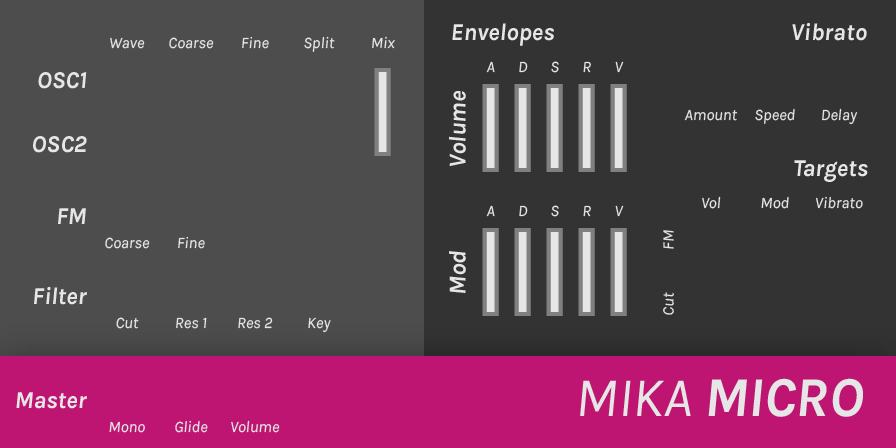
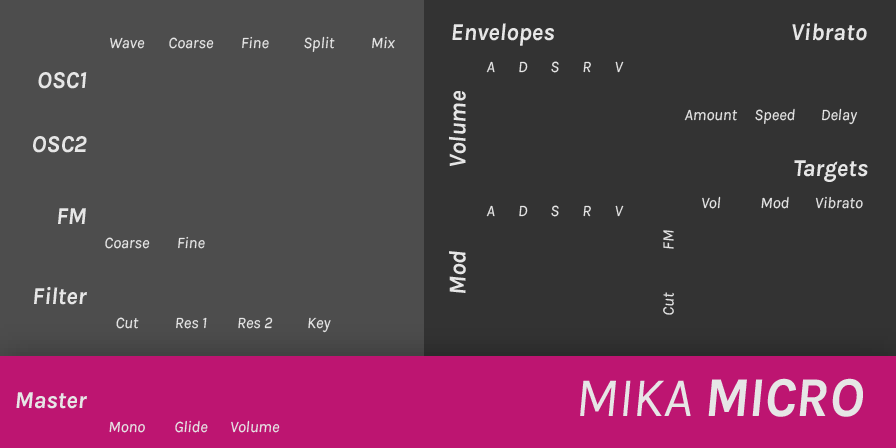
gray out mod envelope when not useful

Changed region(s): [[0.5312, 0.5, 0.7188, 0.7188], [0.5312, 0.1875, 0.7188, 0.4062], [0.4062, 0.1562, 0.4375, 0.3438]]

diff --git a/source/MikaMicro.cpp b/source/MikaMicro.cpp
@@ -65,6 +65,7 @@ void MikaMicro::InitGraphics()
 
 	auto knob = pGraphics->LoadIBitmap(KNOB_ID, KNOB_FN, 55);
 	auto slider = pGraphics->LoadIBitmap(SLIDER_ID, SLIDER_FN, 1);
+	auto sliderBg = pGraphics->LoadIBitmap(SLIDERBG_ID, SLIDERBG_FN, 1);
 	auto waveformSwitch = pGraphics->LoadIBitmap(WAVEFORMSWITCH_ID, WAVEFORMSWITCH_FN, numWaveforms);
 	auto toggleSwitch = pGraphics->LoadIBitmap(TOGGLESWITCH_ID, TOGGLESWITCH_FN, 2);
 
@@ -77,6 +78,7 @@ void MikaMicro::InitGraphics()
 	pGraphics->AttachControl(new IKnobMultiControl(this, 40 * 4, 28 * 4, osc2Coarse, &knob));
 	pGraphics->AttachControl(new IKnobMultiControl(this, 56 * 4, 28 * 4, osc2Fine, &knob));
 	pGraphics->AttachControl(new IKnobMultiControl(this, 72 * 4, 28 * 4, osc2Split, &knob));
+	pGraphics->AttachControl(new IBitmapControl(this, 93.5 * 4, 17 * 4, &sliderBg));
 	pGraphics->AttachControl(new IFaderControl(this, 92.5 * 4, 17 * 4, 22 * 4, oscMix, &slider));
 
 	// fm
@@ -90,15 +92,25 @@ void MikaMicro::InitGraphics()
 	pGraphics->AttachControl(new IKnobMultiControl(this, 72 * 4, 64 * 4, filterKeyTrack, &knob));
 
 	// modulation sources
+	pGraphics->AttachControl(new IBitmapControl(this, 120.5 * 4, 21 * 4, &sliderBg));
 	pGraphics->AttachControl(new IFaderControl(this, 119.5 * 4, 21 * 4, 22 * 4, volEnvA, &slider));
+	pGraphics->AttachControl(new IBitmapControl(this, 128.5 * 4, 21 * 4, &sliderBg));
 	pGraphics->AttachControl(new IFaderControl(this, 127.5 * 4, 21 * 4, 22 * 4, volEnvD, &slider));
+	pGraphics->AttachControl(new IBitmapControl(this, 136.5 * 4, 21 * 4, &sliderBg));
 	pGraphics->AttachControl(new IFaderControl(this, 135.5 * 4, 21 * 4, 22 * 4, volEnvS, &slider));
+	pGraphics->AttachControl(new IBitmapControl(this, 144.5 * 4, 21 * 4, &sliderBg));
 	pGraphics->AttachControl(new IFaderControl(this, 143.5 * 4, 21 * 4, 22 * 4, volEnvR, &slider));
+	pGraphics->AttachControl(new IBitmapControl(this, 152.5 * 4, 21 * 4, &sliderBg));
 	pGraphics->AttachControl(new IFaderControl(this, 151.5 * 4, 21 * 4, 22 * 4, volEnvV, &slider));
+	pGraphics->AttachControl(new IBitmapControl(this, 120.5 * 4, 57 * 4, &sliderBg));
 	pGraphics->AttachControl(new IFaderControl(this, 119.5 * 4, 57 * 4, 22 * 4, modEnvA, &slider));
+	pGraphics->AttachControl(new IBitmapControl(this, 128.5 * 4, 57 * 4, &sliderBg));
 	pGraphics->AttachControl(new IFaderControl(this, 127.5 * 4, 57 * 4, 22 * 4, modEnvD, &slider));
+	pGraphics->AttachControl(new IBitmapControl(this, 136.5 * 4, 57 * 4, &sliderBg));
 	pGraphics->AttachControl(new IFaderControl(this, 135.5 * 4, 57 * 4, 22 * 4, modEnvS, &slider));
+	pGraphics->AttachControl(new IBitmapControl(this, 144.5 * 4, 57 * 4, &sliderBg));
 	pGraphics->AttachControl(new IFaderControl(this, 143.5 * 4, 57 * 4, 22 * 4, modEnvR, &slider));
+	pGraphics->AttachControl(new IBitmapControl(this, 152.5 * 4, 57 * 4, &sliderBg));
 	pGraphics->AttachControl(new IFaderControl(this, 151.5 * 4, 57 * 4, 22 * 4, modEnvV, &slider));
 	pGraphics->AttachControl(new IKnobMultiControl(this, 170 * 4, 12 * 4, lfoAmount, &knob));
 	pGraphics->AttachControl(new IKnobMultiControl(this, 186 * 4, 12 * 4, lfoFrequency, &knob));
@@ -180,36 +192,22 @@ void MikaMicro::GrayOutControls()
 	auto osc1Enabled = parameters[oscMix] < 1.0;
 	auto osc2Enabled = parameters[oscMix] > 0.0;
 	auto filterEnabled = parameters[filterCutoff] < 20000.;
+	auto modEnvEnabled = parameters[modEnvFm] != 0.0 || parameters[modEnvCutoff] != 0.0;
 	auto vibratoEnabled = parameters[lfoFm] != 0.0 || parameters[lfoCutoff] != 0.0 ||
 		parameters[lfoAmount] < 0.0 || (parameters[lfoAmount] > 0.0 && osc2Enabled);
 	
-	pGraphics->GetControl(osc1Wave + 1)->GrayOut(!osc1Enabled);
-	pGraphics->GetControl(osc1Coarse + 1)->GrayOut(!(osc1Enabled || fmEnabled));
-	pGraphics->GetControl(osc1Fine + 1)->GrayOut(!(osc1Enabled || fmEnabled));
-	pGraphics->GetControl(osc1Split + 1)->GrayOut(!osc1Enabled);
-	
-	pGraphics->GetControl(osc2Wave + 1)->GrayOut(!osc2Enabled);
-	pGraphics->GetControl(osc2Coarse + 1)->GrayOut(!osc2Enabled);
-	pGraphics->GetControl(osc2Fine + 1)->GrayOut(!osc2Enabled);
-	pGraphics->GetControl(osc2Split + 1)->GrayOut(!osc2Enabled);
-
-	pGraphics->GetControl(fmFine + 1)->GrayOut(!fmEnabled);
-	
-	pGraphics->GetControl(filterRes1 + 1)->GrayOut(!filterEnabled);
-	pGraphics->GetControl(filterRes2 + 1)->GrayOut(!filterEnabled);
-	pGraphics->GetControl(filterKeyTrack + 1)->GrayOut(!filterEnabled);
-	
-	pGraphics->GetControl(lfoFrequency + 1)->GrayOut(!vibratoEnabled);
-	pGraphics->GetControl(lfoDelay + 1)->GrayOut(!vibratoEnabled);
-
-	pGraphics->GetControl(volEnvFm + 1)->GrayOut(!fmEnabled);
-	pGraphics->GetControl(modEnvFm + 1)->GrayOut(!fmEnabled);
-	pGraphics->GetControl(lfoFm - 2)->GrayOut(!fmEnabled); // wdl-ol are you ok?
-	pGraphics->GetControl(volEnvCutoff + 3)->GrayOut(!filterEnabled);
-	pGraphics->GetControl(modEnvCutoff + 3)->GrayOut(!filterEnabled);
-	pGraphics->GetControl(lfoCutoff)->GrayOut(!filterEnabled);
-
-	pGraphics->GetControl(glideSpeed + 1)->GrayOut(!parameters[monoMode]);
+	pGraphics->GetControl(1)->GrayOut(!osc1Enabled);
+	pGraphics->GetControl(2)->GrayOut(!(osc1Enabled || fmEnabled));
+	pGraphics->GetControl(3)->GrayOut(!(osc1Enabled || fmEnabled));
+	pGraphics->GetControl(4)->GrayOut(!osc1Enabled);
+	for (int i = 5; i < 9; i++) pGraphics->GetControl(i)->GrayOut(!osc2Enabled);
+	pGraphics->GetControl(12)->GrayOut(!fmEnabled);
+	for (int i = 14; i < 17; i++) pGraphics->GetControl(i)->GrayOut(!filterEnabled);
+	for (int i = 27; i < 37; i++) pGraphics->GetControl(i)->GrayOut(!modEnvEnabled);
+	for (int i = 38; i < 40; i++) pGraphics->GetControl(i)->GrayOut(!vibratoEnabled);
+	for (int i = 40; i < 43; i++) pGraphics->GetControl(i)->GrayOut(!fmEnabled);
+	for (int i = 43; i < 46; i++) pGraphics->GetControl(i)->GrayOut(!filterEnabled);
+	pGraphics->GetControl(47)->GrayOut(!parameters[monoMode]);
 }
 
 void MikaMicro::OnParamChange(int paramIdx)

diff --git a/source/resource.h b/source/resource.h
@@ -57,13 +57,15 @@ instrument determined by PLUG _IS _INST
 #define BG_ID 100
 #define KNOB_ID 101
 #define SLIDER_ID 102
-#define WAVEFORMSWITCH_ID 103
-#define TOGGLESWITCH_ID 104
+#define SLIDERBG_ID 103
+#define WAVEFORMSWITCH_ID 104
+#define TOGGLESWITCH_ID 105
 
 // Image resource locations for this plug.
 #define BG_FN "resources/img/bg.png"
 #define KNOB_FN "resources/img/knob.png"
 #define SLIDER_FN "resources/img/slider.png"
+#define SLIDERBG_FN "resources/img/sliderbg.png"
 #define WAVEFORMSWITCH_FN "resources/img/waveforms.png"
 #define TOGGLESWITCH_FN "resources/img/switch.png"
 
